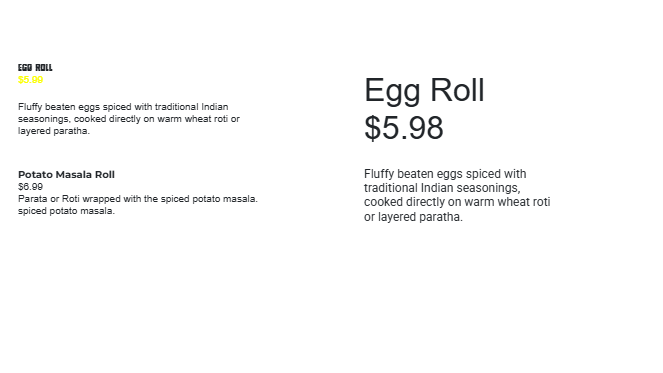
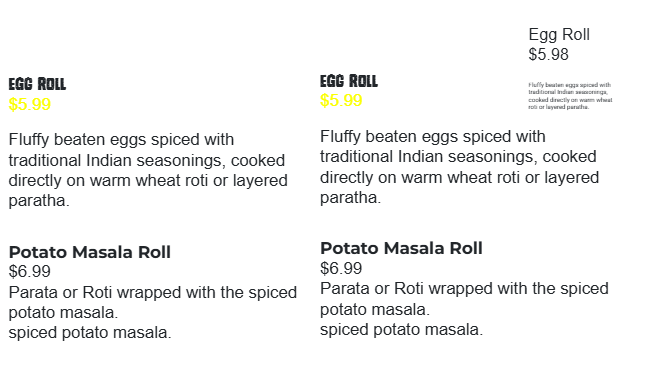
scale done

diff --git a/AnimationProject/wwwroot/js/animationsHorizontal.js b/AnimationProject/wwwroot/js/animationsHorizontal.js
@@ -17702,3 +17702,180 @@ function flashClass(el, cls, ms = 1100) {
         }
     });
 })();
+
+/* Copy/Paste Scale — window-scoped (uses textObjects/images/activeText/activeImage in THIS window) */
+
+(function () {
+    const NS = (window.ScaleOps ||= {});
+    NS.__lastScale ??= null;
+
+    // ---------------- selection (your model) ----------------
+    function resolveSelection() {
+        const out = [];
+        if (Array.isArray(textObjects)) {
+            for (const o of textObjects) if (o && o.selected && !o.locked) out.push(o);
+        }
+        if (Array.isArray(images)) {
+            for (const i of images) if (i && i.selected && !i.locked) out.push(i);
+        }
+        if (!out.length) {
+            if (activeText && !activeText.locked) out.push(activeText);
+            if (activeImage && !activeImage.locked) out.push(activeImage);
+        }
+        return out;
+    }
+    function primarySelection() {
+        const a = resolveSelection();
+        return a.length ? a[0] : null;
+    }
+
+    // ---------------- geometry helpers ----------------
+    function aabb(b) {
+        if (typeof b.w === 'number' && typeof b.h === 'number') {
+            return { w: Math.max(0, b.w), h: Math.max(0, b.h) };
+        }
+        const ww = Math.max(0, (b.width ?? 0));
+        const hh = Math.max(0, (b.height ?? 0));
+        return { w: ww, h: hh };
+    }
+    function centerOf(b) {
+        const left = (typeof b.left === "number") ? b.left : (b.x ?? 0);
+        const top = (typeof b.top === "number") ? b.top : (b.y ?? 0);
+        const w = (typeof b.w === "number") ? b.w : (b.width ?? 0);
+        const h = (typeof b.h === "number") ? b.h : (b.height ?? 0);
+        return { cx: left + w / 2, cy: top + h / 2, left, top, w, h };
+    }
+
+    // ---------------- key: write ALL size aliases your renderer might use ----------------
+    function applyDims(b, w, h) {
+        // canonical
+        b.w = w; b.h = h;
+
+        // common alternates your code uses across text/image/svg
+        b.width = w; b.height = h;
+        if ('boxW' in b || 'boxH' in b) { b.boxW = w; b.boxH = h; }
+        if ('boxWidth' in b || 'boxHeight' in b) { b.boxWidth = w; b.boxHeight = h; }
+        if (b.rect) { b.rect.width = w; b.rect.height = h; }
+        if (b.bounds) { b.bounds.width = w; b.bounds.height = h; }
+        if (b.size) { b.size.w = w; b.size.h = h; }
+        if (b.frame) { b.frame.w = w; b.frame.h = h; }
+
+        // text layout flags seen in your project from time to time
+        if ('autoWidth' in b) b.autoWidth = false;
+        if ('autoHeight' in b) b.autoHeight = false;
+        if ('needsLayout' in b) b.needsLayout = true;
+        if ('measureDirty' in b) b.measureDirty = true;
+    }
+
+    function setSizeKeepCenter(b, newW, newH) {
+        const { cx, cy } = centerOf(b);
+        const w = Math.max(0, newW), h = Math.max(0, newH);
+
+        // write dims first (covers all aliases)
+        applyDims(b, w, h);
+
+        // keep center fixed (support both left/top and x/y)
+        if (typeof b.left === "number" || typeof b.top === "number") {
+            b.left = cx - w / 2; b.top = cy - h / 2;
+        } else {
+            b.x = cx - w / 2; b.y = cy - h / 2;
+        }
+
+        // keep alias positions in sync
+        if (b.bounds) { b.bounds.left = (b.left ?? b.x); b.bounds.top = (b.top ?? b.y); }
+        if (b.rect) { b.rect.left = (b.left ?? b.x); b.rect.top = (b.top ?? b.y); }
+    }
+
+    function isLine(b) { return !!(b.isLine || b.type === 'line' || b.shape === 'line'); }
+    function scaleLine(b, newW, newH) {
+        if (['x1', 'y1', 'x2', 'y2'].every(k => typeof b[k] === 'number')) {
+            const cx = (b.x1 + b.x2) / 2, cy = (b.y1 + b.y2) / 2;
+            const cw = Math.abs(b.x2 - b.x1) || 1, ch = Math.abs(b.y2 - b.y1) || 1;
+            const sx = newW / cw, sy = newH / ch;
+            const dx1 = b.x1 - cx, dy1 = b.y1 - cy, dx2 = b.x2 - cx, dy2 = b.y2 - cy;
+            b.x1 = cx + dx1 * sx; b.y1 = cy + dy1 * sy;
+            b.x2 = cx + dx2 * sx; b.y2 = cy + dy2 * sy;
+            applyDims(b, newW, newH);
+        } else {
+            setSizeKeepCenter(b, newW, newH);
+        }
+    }
+
+    // ---------------- paste button state ----------------
+    function getPasteBtn() {
+        let el = document.getElementById('btnPasteScale');
+        if (el) return el;
+        return Array.from(document.querySelectorAll('button,.btn,[role="button"]'))
+            .find(n => /paste\s*scale/i.test(n.title || n.textContent || '')) || null;
+    }
+    function syncPasteBtn() {
+        const btn = getPasteBtn();
+        if (!btn) return;
+        const canPaste = !!NS.__lastScale;
+        btn.disabled = !canPaste;
+        if (canPaste) btn.classList.remove('disabled'); else btn.classList.add('disabled');
+        btn.title = canPaste ? `Paste Scale (${NS.__lastScale.w}×${NS.__lastScale.h})`
+            : 'Paste Scale (copy a size first)';
+    }
+    (new MutationObserver(syncPasteBtn))
+        .observe(document.documentElement, { childList: true, subtree: true });
+    if (document.readyState !== 'loading') syncPasteBtn();
+    else document.addEventListener('DOMContentLoaded', syncPasteBtn, { once: true });
+
+    // ---------------- public API ----------------
+    NS.copyScale = function () {
+        const src = primarySelection();
+        if (!src) { console.warn("Copy Scale: no selection."); return; }
+        const { w, h } = aabb(src);
+        if (!w || !h) { console.warn("Copy Scale: source has zero size."); return; }
+        NS.__lastScale = { w, h, fromId: src.id, ts: Date.now() };
+        try { if (window.ShowToast) ShowToast(`Copied scale: ${w.toFixed(1)}×${h.toFixed(1)}`); } catch { }
+        setTimeout(syncPasteBtn, 0);
+    };
+
+    NS.pasteScale = function () {
+        if (!NS.__lastScale) { console.warn("Paste Scale: nothing copied yet."); return; }
+        const targets = resolveSelection();
+        if (!targets.length) { console.warn("Paste Scale: no selection."); return; }
+        const { w: newW, h: newH } = NS.__lastScale;
+
+        // History only if it’s actually initialized and pushable
+        const canHistory = !!(window.History && History.enabled && typeof History.push === 'function');
+        const before = canHistory ? targets.map(b => ({
+            id: b.id, left: b.left ?? b.x, top: b.top ?? b.y, w: b.w, h: b.h,
+            x1: b.x1, y1: b.y1, x2: b.x2, y2: b.y2
+        })) : null;
+
+        for (const b of targets) {
+            if (isLine(b)) scaleLine(b, newW, newH);
+            else setSizeKeepCenter(b, newW, newH);
+        }
+
+        if (canHistory) {
+            const after = targets.map(b => ({
+                id: b.id, left: b.left ?? b.x, top: b.top ?? b.y, w: b.w, h: b.h,
+                x1: b.x1, y1: b.y1, x2: b.x2, y2: b.y2
+            }));
+            History.push({ type: 'paste-scale', items: targets.map(t => t.id), before, after });
+        }
+
+        // force a redraw using whatever your app exposes
+        if (typeof window.renderScene === 'function') renderScene();
+        else if (typeof drawText === 'function') drawText();
+        else if (typeof window.draw === 'function') draw();
+
+        try { if (window.ShowToast) ShowToast(`Pasted ${newW.toFixed(1)}×${newH.toFixed(1)} to ${targets.length} item(s)`); } catch { }
+        setTimeout(syncPasteBtn, 0);
+    };
+
+    // (optional) quick debug
+    NS.debugSelection = function () {
+        const arr = resolveSelection();
+        console.log('[ScaleOps] selection:', arr.map(b => ({
+            id: b.id, type: b.type, w: b.w, h: b.h, width: b.width, height: b.height,
+            left: b.left ?? b.x, top: b.top ?? b.y
+        })));
+        return arr;
+    };
+})();
+

diff --git a/AnimationProject/wwwroot/js/animations.js b/AnimationProject/wwwroot/js/animations.js
@@ -18137,3 +18137,178 @@ function flashClass(el, cls, ms = 1100) {
         }
     });
 })();
+/* Copy/Paste Scale — window-scoped (uses textObjects/images/activeText/activeImage in THIS window) */
+
+(function () {
+    const NS = (window.ScaleOps ||= {});
+    NS.__lastScale ??= null;
+
+    // ---------------- selection (your model) ----------------
+    function resolveSelection() {
+        const out = [];
+        if (Array.isArray(textObjects)) {
+            for (const o of textObjects) if (o && o.selected && !o.locked) out.push(o);
+        }
+        if (Array.isArray(images)) {
+            for (const i of images) if (i && i.selected && !i.locked) out.push(i);
+        }
+        if (!out.length) {
+            if (activeText && !activeText.locked) out.push(activeText);
+            if (activeImage && !activeImage.locked) out.push(activeImage);
+        }
+        return out;
+    }
+    function primarySelection() {
+        const a = resolveSelection();
+        return a.length ? a[0] : null;
+    }
+
+    // ---------------- geometry helpers ----------------
+    function aabb(b) {
+        if (typeof b.w === 'number' && typeof b.h === 'number') {
+            return { w: Math.max(0, b.w), h: Math.max(0, b.h) };
+        }
+        const ww = Math.max(0, (b.width ?? 0));
+        const hh = Math.max(0, (b.height ?? 0));
+        return { w: ww, h: hh };
+    }
+    function centerOf(b) {
+        const left = (typeof b.left === "number") ? b.left : (b.x ?? 0);
+        const top = (typeof b.top === "number") ? b.top : (b.y ?? 0);
+        const w = (typeof b.w === "number") ? b.w : (b.width ?? 0);
+        const h = (typeof b.h === "number") ? b.h : (b.height ?? 0);
+        return { cx: left + w / 2, cy: top + h / 2, left, top, w, h };
+    }
+
+    // ---------------- key: write ALL size aliases your renderer might use ----------------
+    function applyDims(b, w, h) {
+        // canonical
+        b.w = w; b.h = h;
+
+        // common alternates your code uses across text/image/svg
+        b.width = w; b.height = h;
+        if ('boxW' in b || 'boxH' in b) { b.boxW = w; b.boxH = h; }
+        if ('boxWidth' in b || 'boxHeight' in b) { b.boxWidth = w; b.boxHeight = h; }
+        if (b.rect) { b.rect.width = w; b.rect.height = h; }
+        if (b.bounds) { b.bounds.width = w; b.bounds.height = h; }
+        if (b.size) { b.size.w = w; b.size.h = h; }
+        if (b.frame) { b.frame.w = w; b.frame.h = h; }
+
+        // text layout flags seen in your project from time to time
+        if ('autoWidth' in b) b.autoWidth = false;
+        if ('autoHeight' in b) b.autoHeight = false;
+        if ('needsLayout' in b) b.needsLayout = true;
+        if ('measureDirty' in b) b.measureDirty = true;
+    }
+
+    function setSizeKeepCenter(b, newW, newH) {
+        const { cx, cy } = centerOf(b);
+        const w = Math.max(0, newW), h = Math.max(0, newH);
+
+        // write dims first (covers all aliases)
+        applyDims(b, w, h);
+
+        // keep center fixed (support both left/top and x/y)
+        if (typeof b.left === "number" || typeof b.top === "number") {
+            b.left = cx - w / 2; b.top = cy - h / 2;
+        } else {
+            b.x = cx - w / 2; b.y = cy - h / 2;
+        }
+
+        // keep alias positions in sync
+        if (b.bounds) { b.bounds.left = (b.left ?? b.x); b.bounds.top = (b.top ?? b.y); }
+        if (b.rect) { b.rect.left = (b.left ?? b.x); b.rect.top = (b.top ?? b.y); }
+    }
+
+    function isLine(b) { return !!(b.isLine || b.type === 'line' || b.shape === 'line'); }
+    function scaleLine(b, newW, newH) {
+        if (['x1', 'y1', 'x2', 'y2'].every(k => typeof b[k] === 'number')) {
+            const cx = (b.x1 + b.x2) / 2, cy = (b.y1 + b.y2) / 2;
+            const cw = Math.abs(b.x2 - b.x1) || 1, ch = Math.abs(b.y2 - b.y1) || 1;
+            const sx = newW / cw, sy = newH / ch;
+            const dx1 = b.x1 - cx, dy1 = b.y1 - cy, dx2 = b.x2 - cx, dy2 = b.y2 - cy;
+            b.x1 = cx + dx1 * sx; b.y1 = cy + dy1 * sy;
+            b.x2 = cx + dx2 * sx; b.y2 = cy + dy2 * sy;
+            applyDims(b, newW, newH);
+        } else {
+            setSizeKeepCenter(b, newW, newH);
+        }
+    }
+
+    // ---------------- paste button state ----------------
+    function getPasteBtn() {
+        let el = document.getElementById('btnPasteScale');
+        if (el) return el;
+        return Array.from(document.querySelectorAll('button,.btn,[role="button"]'))
+            .find(n => /paste\s*scale/i.test(n.title || n.textContent || '')) || null;
+    }
+    function syncPasteBtn() {
+        const btn = getPasteBtn();
+        if (!btn) return;
+        const canPaste = !!NS.__lastScale;
+        btn.disabled = !canPaste;
+        if (canPaste) btn.classList.remove('disabled'); else btn.classList.add('disabled');
+        btn.title = canPaste ? `Paste Scale (${NS.__lastScale.w}×${NS.__lastScale.h})`
+            : 'Paste Scale (copy a size first)';
+    }
+    (new MutationObserver(syncPasteBtn))
+        .observe(document.documentElement, { childList: true, subtree: true });
+    if (document.readyState !== 'loading') syncPasteBtn();
+    else document.addEventListener('DOMContentLoaded', syncPasteBtn, { once: true });
+
+    // ---------------- public API ----------------
+    NS.copyScale = function () {
+        const src = primarySelection();
+        if (!src) { console.warn("Copy Scale: no selection."); return; }
+        const { w, h } = aabb(src);
+        if (!w || !h) { console.warn("Copy Scale: source has zero size."); return; }
+        NS.__lastScale = { w, h, fromId: src.id, ts: Date.now() };
+        try { if (window.ShowToast) ShowToast(`Copied scale: ${w.toFixed(1)}×${h.toFixed(1)}`); } catch { }
+        setTimeout(syncPasteBtn, 0);
+    };
+
+    NS.pasteScale = function () {
+        if (!NS.__lastScale) { console.warn("Paste Scale: nothing copied yet."); return; }
+        const targets = resolveSelection();
+        if (!targets.length) { console.warn("Paste Scale: no selection."); return; }
+        const { w: newW, h: newH } = NS.__lastScale;
+
+        // History only if it’s actually initialized and pushable
+        const canHistory = !!(window.History && History.enabled && typeof History.push === 'function');
+        const before = canHistory ? targets.map(b => ({
+            id: b.id, left: b.left ?? b.x, top: b.top ?? b.y, w: b.w, h: b.h,
+            x1: b.x1, y1: b.y1, x2: b.x2, y2: b.y2
+        })) : null;
+
+        for (const b of targets) {
+            if (isLine(b)) scaleLine(b, newW, newH);
+            else setSizeKeepCenter(b, newW, newH);
+        }
+
+        if (canHistory) {
+            const after = targets.map(b => ({
+                id: b.id, left: b.left ?? b.x, top: b.top ?? b.y, w: b.w, h: b.h,
+                x1: b.x1, y1: b.y1, x2: b.x2, y2: b.y2
+            }));
+            History.push({ type: 'paste-scale', items: targets.map(t => t.id), before, after });
+        }
+
+        // force a redraw using whatever your app exposes
+        if (typeof window.renderScene === 'function') renderScene();
+        else if (typeof drawText === 'function') drawText();
+        else if (typeof window.draw === 'function') draw();
+
+        try { if (window.ShowToast) ShowToast(`Pasted ${newW.toFixed(1)}×${newH.toFixed(1)} to ${targets.length} item(s)`); } catch { }
+        setTimeout(syncPasteBtn, 0);
+    };
+
+    // (optional) quick debug
+    NS.debugSelection = function () {
+        const arr = resolveSelection();
+        console.log('[ScaleOps] selection:', arr.map(b => ({
+            id: b.id, type: b.type, w: b.w, h: b.h, width: b.width, height: b.height,
+            left: b.left ?? b.x, top: b.top ?? b.y
+        })));
+        return arr;
+    };
+})();
